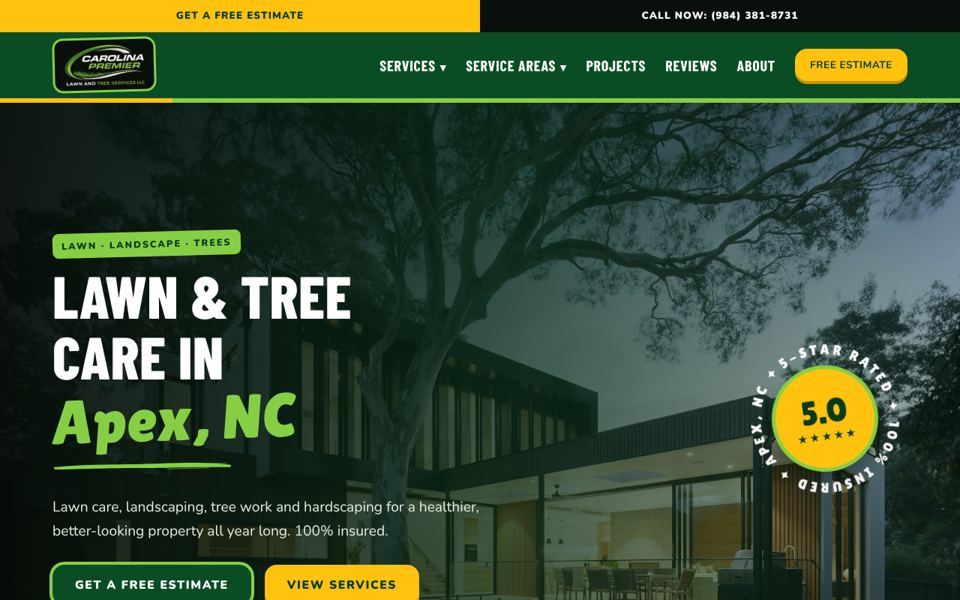
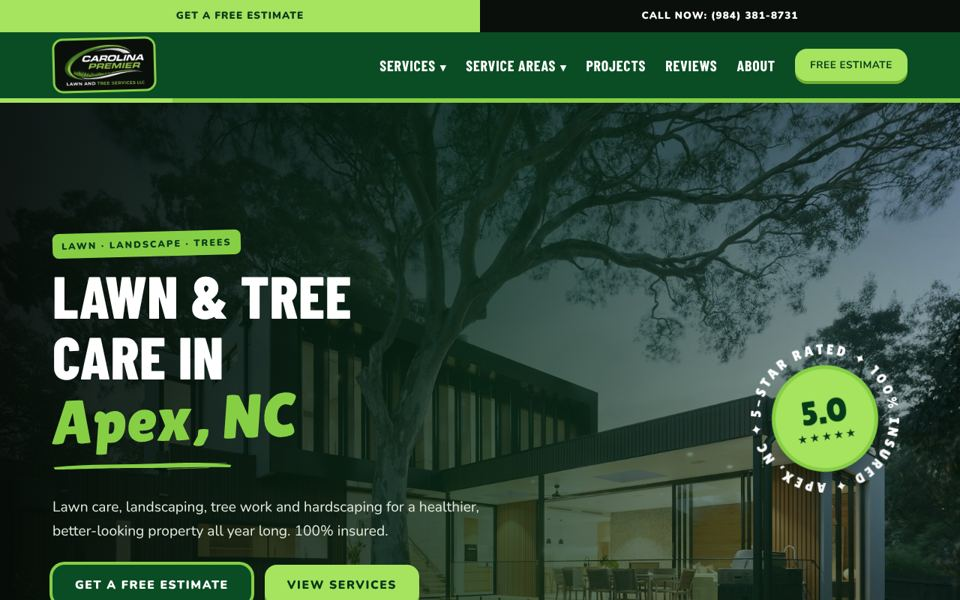
Switch the live site accent from yellow to All Green
Claude-Session: https://claude.ai/code/session_0162EgiSV55yf5C5PxXmG7d9

diff --git a/concepts/colors/index.html b/concepts/colors/index.html
@@ -20,12 +20,12 @@ h1 { font-size: clamp(2rem, 5vw, 3rem); margin: 0 0 8px; letter-spacing: -.02em;
 <h1>Accent color options</h1>
 <p class="intro">Same design as the live site. Only the accent color changes (the top bar, secondary buttons, the spinning badge center, the "Not sure what you need?" card, the stripes and the phone call bar). Greens and lime stay to match your logo. Open each one on your phone too.</p>
 <div class="grid">
-<a class="card" href="./sunshine-yellow/"><img src="./preview-sunshine-yellow.jpg" alt="Sunshine Yellow (current)" width="960" height="600">
+<a class="card" href="./sunshine-yellow/"><img src="./preview-sunshine-yellow.jpg" alt="Sunshine Yellow" width="960" height="600">
 <div><div class="sw"><span style="background:#0a4d24"></span><span style="background:#86cf45"></span><span style="background:#ffc20e"></span></div>
-<h2>Sunshine Yellow (current)</h2><p>What the live site uses now. Warm and energetic.</p><b>Open Sunshine Yellow →</b></div></a>
-<a class="card" href="./fresh-lime/"><img src="./preview-fresh-lime.jpg" alt="All Green" width="960" height="600">
+<h2>Sunshine Yellow</h2><p>The previous accent. Warm and energetic.</p><b>Open Sunshine Yellow →</b></div></a>
+<a class="card" href="./fresh-lime/"><img src="./preview-fresh-lime.jpg" alt="All Green (live)" width="960" height="600">
 <div><div class="sw"><span style="background:#0a4d24"></span><span style="background:#86cf45"></span><span style="background:#a6e35f"></span></div>
-<h2>All Green</h2><p>No second color, just your greens. A brighter lime takes the yellow's place, so everything matches the logo.</p><b>Open All Green →</b></div></a>
+<h2>All Green (live)</h2><p>Chosen for the live site. No second color, just your greens. A brighter lime takes the yellow's place, so everything matches the logo.</p><b>Open All Green →</b></div></a>
 <a class="card" href="./carolina-blue/"><img src="./preview-carolina-blue.jpg" alt="Carolina Blue" width="960" height="600">
 <div><div class="sw"><span style="background:#0a4d24"></span><span style="background:#86cf45"></span><span style="background:#6ec1f5"></span></div>
 <h2>Carolina Blue</h2><p>A sky blue accent. Fresh and clean, with a nod to North Carolina.</p><b>Open Carolina Blue →</b></div></a>

diff --git a/concepts/index.html b/concepts/index.html
@@ -32,7 +32,7 @@ h1 { font-size: clamp(2rem, 5vw, 3rem); margin: 0 0 8px; letter-spacing: -.02em;
 <a class="card" href="./estate/"><img src="./assets/preview-estate.jpg" alt="Concept C: Estate" width="960" height="600">
 <div><span class="tag">Concept C</span><h2>Estate</h2><p>Dark, quiet luxury. Charcoal, champagne gold and ivory with a refined serif. Full-screen photo hero and large alternating service sections.</p><b>Open concept C →</b></div></a>
 <a class="card" href="../"><img src="./assets/preview-current.jpg" alt="Current site" width="960" height="600">
-<div><span class="tag">Live site</span><h2>Current site</h2><p>The live site, now rebuilt in the approved Premier Mix style (concept E) across all 66 pages.</p><b>Open live site →</b></div></a>
+<div><span class="tag">Live site</span><h2>Current site</h2><p>The live site: the Premier Mix style (concept E) with the All Green accent, across all 66 pages.</p><b>Open live site →</b></div></a>
 </div>
 <p class="note"><b><a href="./colors/">Accent color options for the live design →</a></b></p>
 <p class="note">These concept pages are hidden from Google so they don't compete with the real site.</p>

diff --git a/styles.css b/styles.css
@@ -7,11 +7,11 @@
   --lime: #86cf45;
   --lime-d: #5e9e2a;
   /* Accent color: buttons, badge, stripes. accent-ink is the accent used as text on dark backgrounds. */
-  --accent: #ffc20e;
-  --accent-d: #c99500;
-  --accent-h: #ffd04a;
+  --accent: #a6e35f;
+  --accent-d: #6fae32;
+  --accent-h: #b9ec7c;
   --on-accent: #073a1b;
-  --accent-ink: #ffc20e;
+  --accent-ink: #a6e35f;
   --white: #ffffff;
   --off: #f2f7ee;
   --ink: #101a13;

diff --git a/_build/concepts/palettes.py b/_build/concepts/palettes.py
@@ -7,9 +7,9 @@ from common import ROOT
 # slug, name, description, accent, accent-d (shadow), accent-h (hover), on-accent (text on it), accent-ink (accent as text on dark),
 # and optionally extra CSS for that palette
 PALETTES = [
-    ('sunshine-yellow', 'Sunshine Yellow (current)', 'What the live site uses now. Warm and energetic.',
+    ('sunshine-yellow', 'Sunshine Yellow', 'The previous accent. Warm and energetic.',
      '#ffc20e', '#c99500', '#ffd04a', '#073a1b', '#ffc20e'),
-    ('fresh-lime', 'All Green', 'No second color, just your greens. A brighter lime takes the yellow\'s place, so everything matches the logo.',
+    ('fresh-lime', 'All Green (live)', 'Chosen for the live site. No second color, just your greens. A brighter lime takes the yellow\'s place, so everything matches the logo.',
      '#a6e35f', '#6fae32', '#b9ec7c', '#073a1b', '#a6e35f'),
     ('carolina-blue', 'Carolina Blue', 'A sky blue accent. Fresh and clean, with a nod to North Carolina.',
      '#6ec1f5', '#3a8ccc', '#8fd0f8', '#062b44', '#8fd0f8'),

diff --git a/_build/concepts/build_all.py b/_build/concepts/build_all.py
@@ -56,7 +56,7 @@ def review_page():
 <div><span class="tag">Concept {letter}</span><h2>{name}</h2><p>{desc}</p><b>Open concept {letter} →</b></div></a>'''
              for slug, letter, name, desc in CONCEPTS]
     cards.append('''<a class="card" href="../"><img src="./assets/preview-current.jpg" alt="Current site" width="960" height="600">
-<div><span class="tag">Live site</span><h2>Current site</h2><p>The live site, now rebuilt in the approved Premier Mix style (concept E) across all 66 pages.</p><b>Open live site →</b></div></a>''')
+<div><span class="tag">Live site</span><h2>Current site</h2><p>The live site: the Premier Mix style (concept E) with the All Green accent, across all 66 pages.</p><b>Open live site →</b></div></a>''')
     (ROOT / 'concepts' / 'index.html').write_text(REVIEW_PAGE.replace('CARDS', '\n'.join(cards)))
 
 
